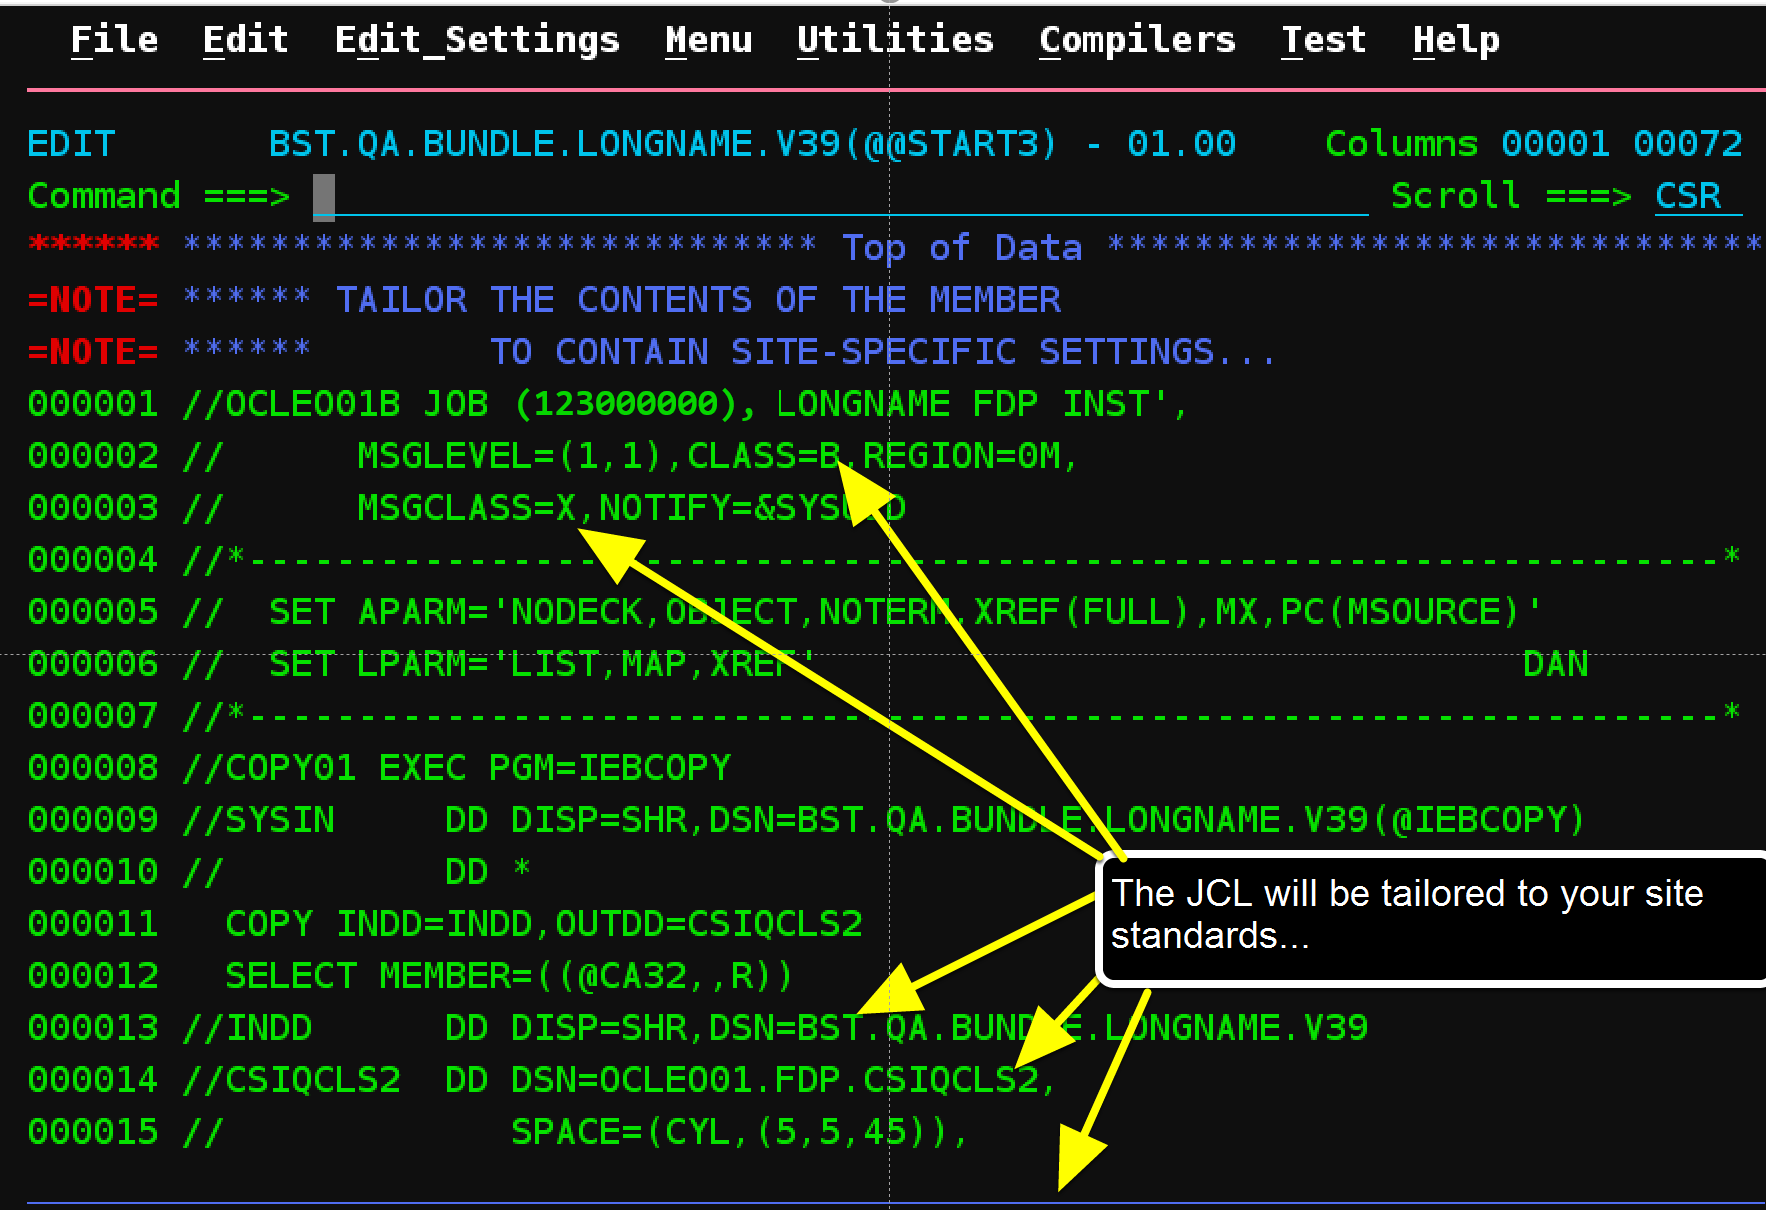
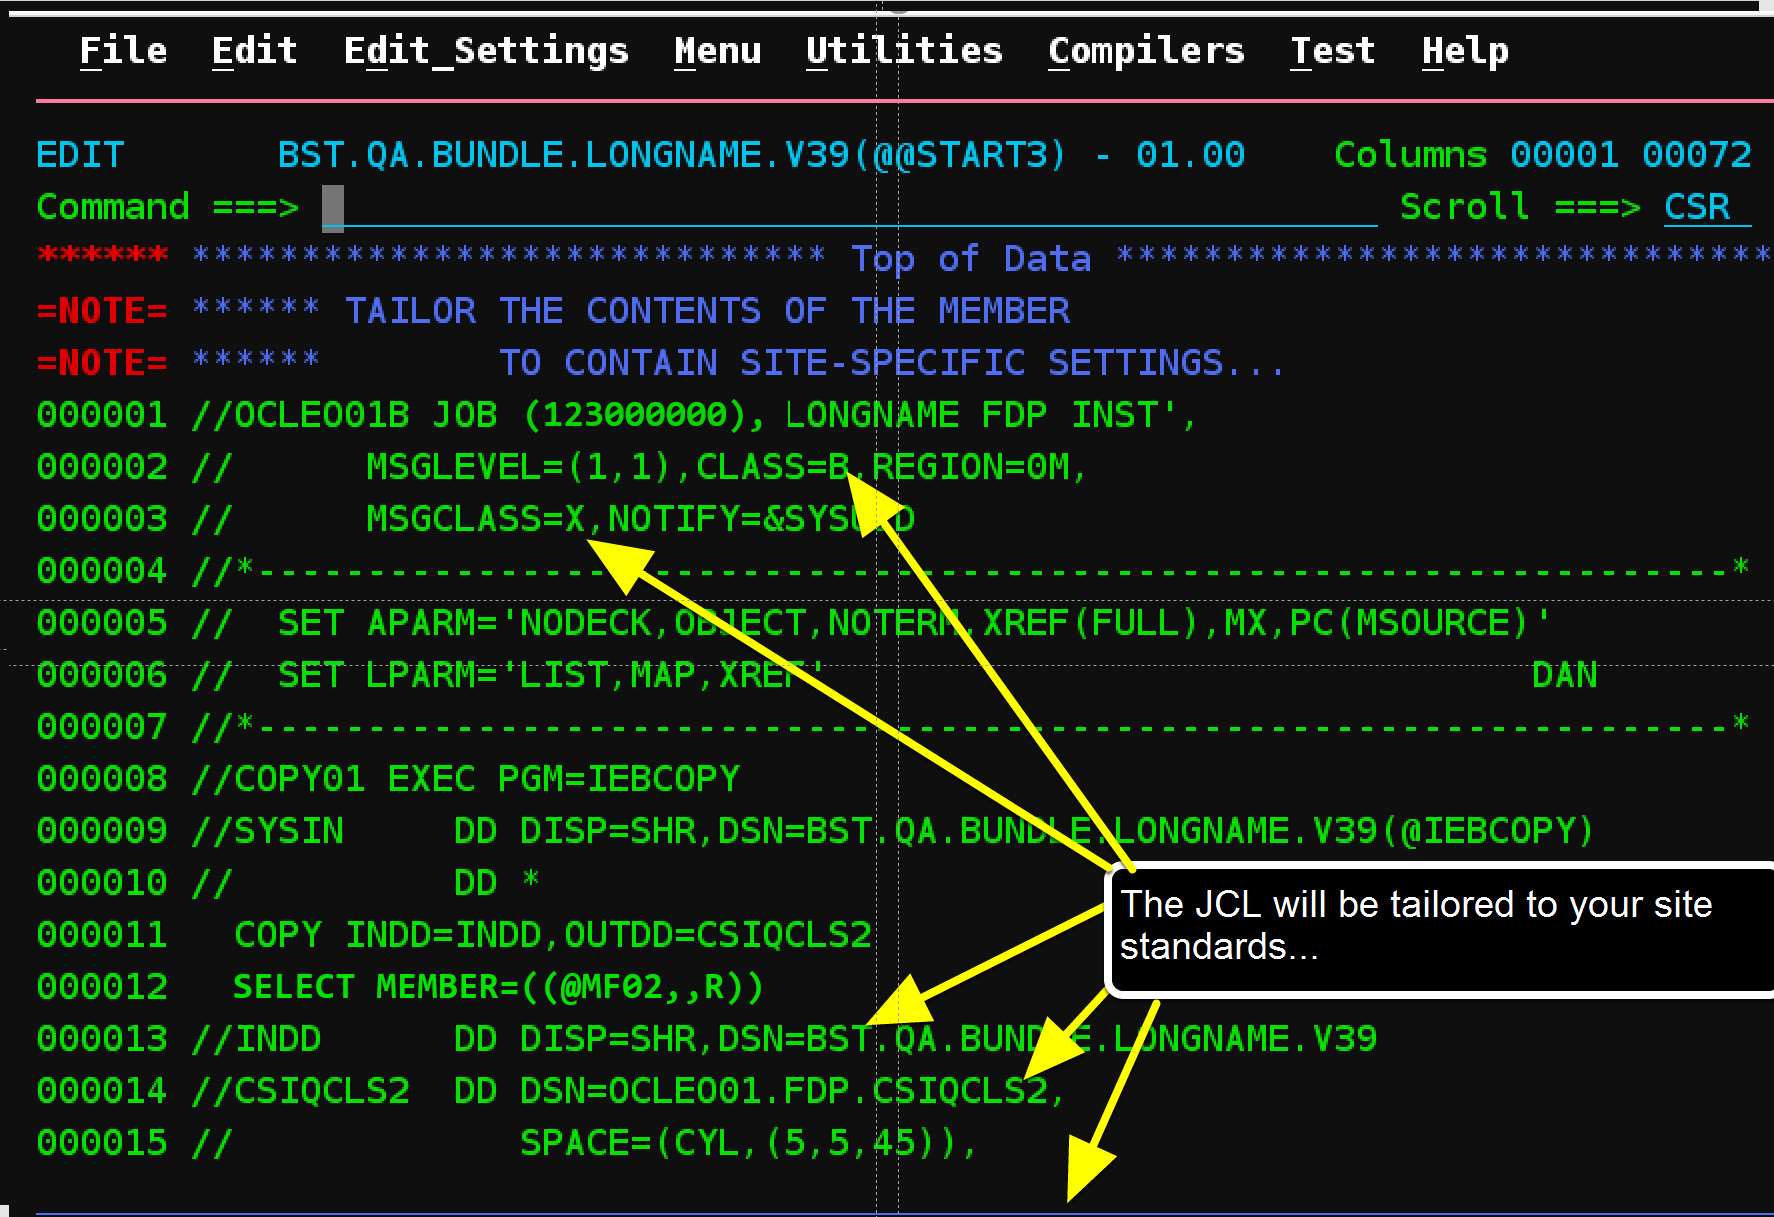
Cleanup

diff --git a/endevor/Field-Developed-Programs/LONGNAME/README.md b/endevor/Field-Developed-Programs/LONGNAME/README.md
@@ -123,7 +123,7 @@ When you are happy, submit the job to run, and then exit Edit mode to free up th
 ![Alt text](image-12.png)![
 
 ### Note: For users with multiple LPARs
-If you execute the FDP on multiple LPARS - you may need custom versions of the @<SYSID> members, one for each LPAR. The @@START3 job is now enhanced to make extra copies of the 'current' @<sysid> member (@DE25) in this example below... simply uncomment the extra copy, select member lines and update the "target @<sysid> member names" (CA11, CA31, CA31, XAD1 in the example below)
+If you execute the FDP on multiple LPARS - you may need custom versions of the @<SYSID> members, one for each LPAR. The @@START3 job is now enhanced to make extra copies of the 'current' @<sysid> member (@DE25) in this example below... simply uncomment the extra copy, select member lines and update the "target @<sysid> member names" (MF03, MF04, MF05, MF06 in the example below)
 
 ![Alt text](image-16.png)
 
